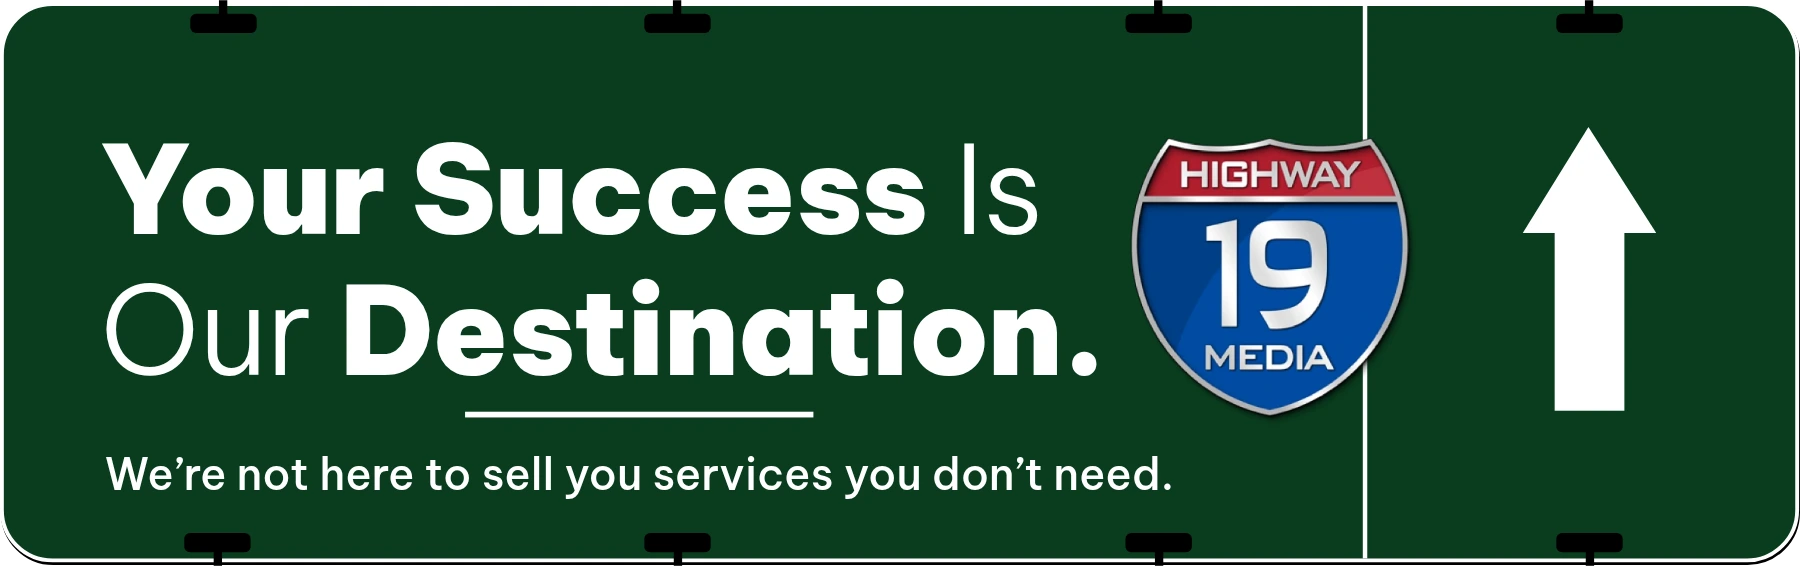
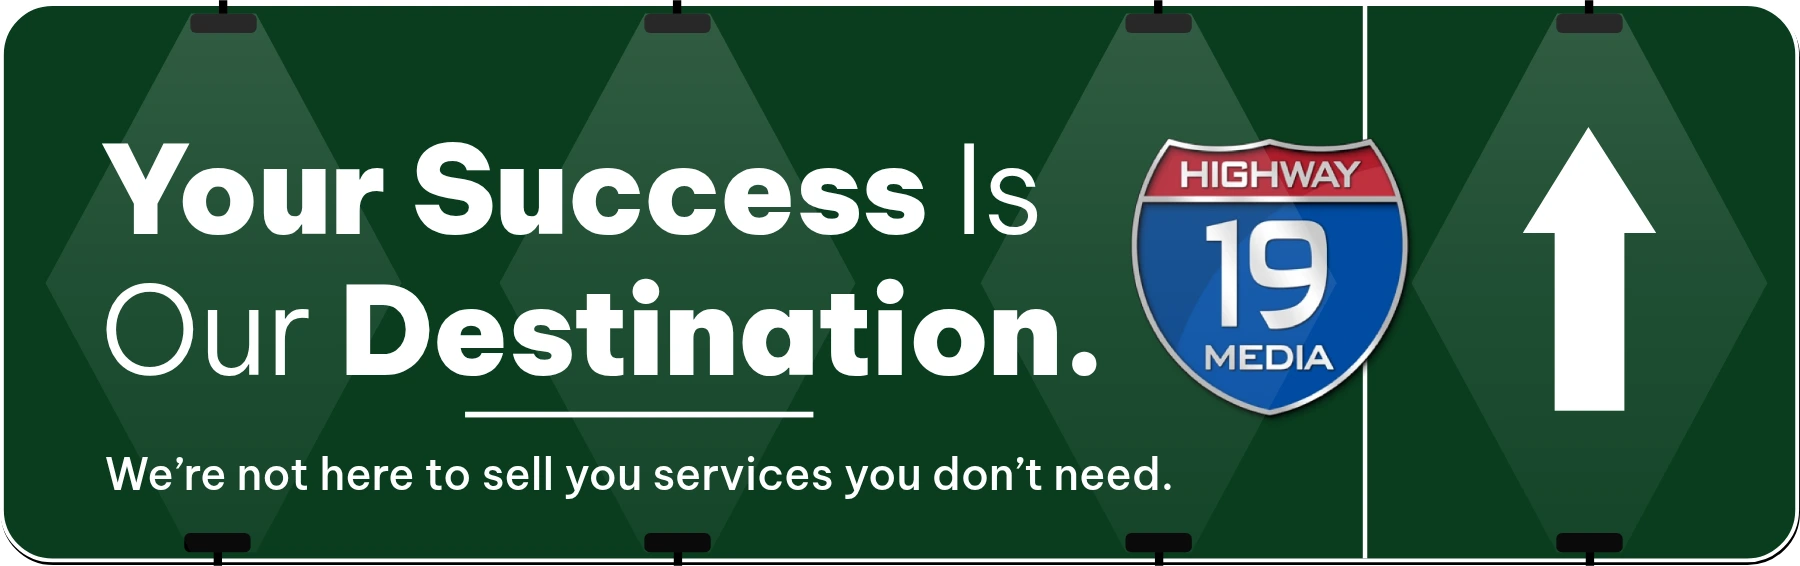
His overlay files fit the hero board and only the hero board
The third board already carries eight brackets of its own, and its shape is
3.183 to one against the hero's 2.685. Stretching his ui-sign-fixtures.svg and
ui-sign-lights.svg onto it put a second set of fittings beside the ones already
drawn there and landed every beam between the brackets instead of under them -
which is what he was looking at.

So the overlay is the hero's alone now, and the third board's light is drawn
into its own night bitmap at the x of ITS four brackets. Same diamonds, same
look as the home page, on the right hardware.

The board's warm bloom comes down with it: 16px at .40 was a halo around the
whole sign rather than light coming off it.

diff --git a/build/v2/drive.html b/build/v2/drive.html
@@ -184,18 +184,22 @@ html,body{margin:0;background:#0a1020;color:#fff;
 .sign .night-art{position:absolute;inset:0;height:100%;width:100%;
   opacity:0;transition:opacity 1s linear}
 :root[data-mode="night"] .sign .night-art{opacity:1}
-:root[data-mode="night"] .sign img{filter:drop-shadow(0 0 16px rgba(255,186,74,.40))}
+:root[data-mode="night"] .sign img{filter:drop-shadow(0 0 11px rgba(255,186,74,.28))}
 /* HIS SIGN LAMPS, the same two files the home page hangs over its boards: the
    fittings are there in daylight with nothing shining, and the beams come up
    after dark. Both are backgrounds on the board's own pseudo-elements, so they
    travel with it and cost no elements. */
-.sign::before,.sign::after{content:'';position:absolute;inset:0;
+/* THE HERO BOARD ONLY. His two overlay files were cut to the hero's own
+   2.685 to one; stretched onto the third board at 3.183 they land between its
+   brackets rather than under them, and their fittings double up with the eight
+   that board already carries. Its light is drawn into its own bitmap instead. */
+.a-hero::before,.a-hero::after{content:'';position:absolute;inset:0;
   pointer-events:none;background-repeat:no-repeat;
   background-position:left 1.429% top 0.411%;background-size:97.091% 102.986%}
-.sign::before{background-image:var(--sign-fixtures);z-index:2}
-.sign::after{background-image:var(--sign-beams);z-index:3;
+.a-hero::before{background-image:var(--sign-fixtures);z-index:2}
+.a-hero::after{background-image:var(--sign-beams);z-index:3;
   opacity:0;transition:opacity 1.2s linear}
-:root[data-mode="night"] .sign::after{opacity:1}
+:root[data-mode="night"] .a-hero::after{opacity:1}
 
 /* THE LAMPS LIGHT THE ROAD, and it costs no elements: the head's glow and the
    pool it throws are the lamp element's own ::after and ::before, sized in per

diff --git a/tools/make_sign3.js b/tools/make_sign3.js
@@ -47,6 +47,23 @@ ${body}
 fs.writeFileSync(path.join(DIR, 'sign-3.svg'), svg);
 let night = svg;
 for (const [d, n] of Object.entries(NIGHT)) night = night.split(d).join(n);
+/* HIS SIGN LAMPS, DRAWN ON THIS BOARD'S OWN BRACKETS. The page hangs his
+ * ui-sign-lights.svg over the hero board and it lands right, because that file
+ * was cut to the hero's proportions. Stretched onto this board - which is
+ * 3.183 to one against the hero's 2.685 - the beams land between the brackets
+ * instead of under them, and its fittings double up with the eight this board
+ * already has drawn on it. So the light is drawn here instead, at the x of
+ * each of HIS brackets, and the CSS overlay is left to the hero alone. */
+const BRACKETS = [116.8, 354.0, 605.4, 830.5];   /* his four, centred */
+const beams = BRACKETS.map(cx =>
+  `<path d="M${cx - 17} 7 H${cx + 17} L${cx + 93} ${H / 2} L${cx + 17} ${H - 7} ` +
+  `H${cx - 17} L${cx - 93} ${H / 2} Z" fill="url(#beam)"/>`).join('');
+night = night.replace('</svg>',
+  `<defs><linearGradient id="beam" x1="0" y1="0" x2="0" y2="1">` +
+  `<stop offset="0" stop-color="#fff" stop-opacity=".16"/>` +
+  `<stop offset=".5" stop-color="#fff" stop-opacity=".09"/>` +
+  `<stop offset="1" stop-color="#fff" stop-opacity=".04"/>` +
+  `</linearGradient></defs>${beams}</svg>`);
 fs.writeFileSync(path.join(DIR, 'sign-3-night.svg'), night);
 
 (async () => {
